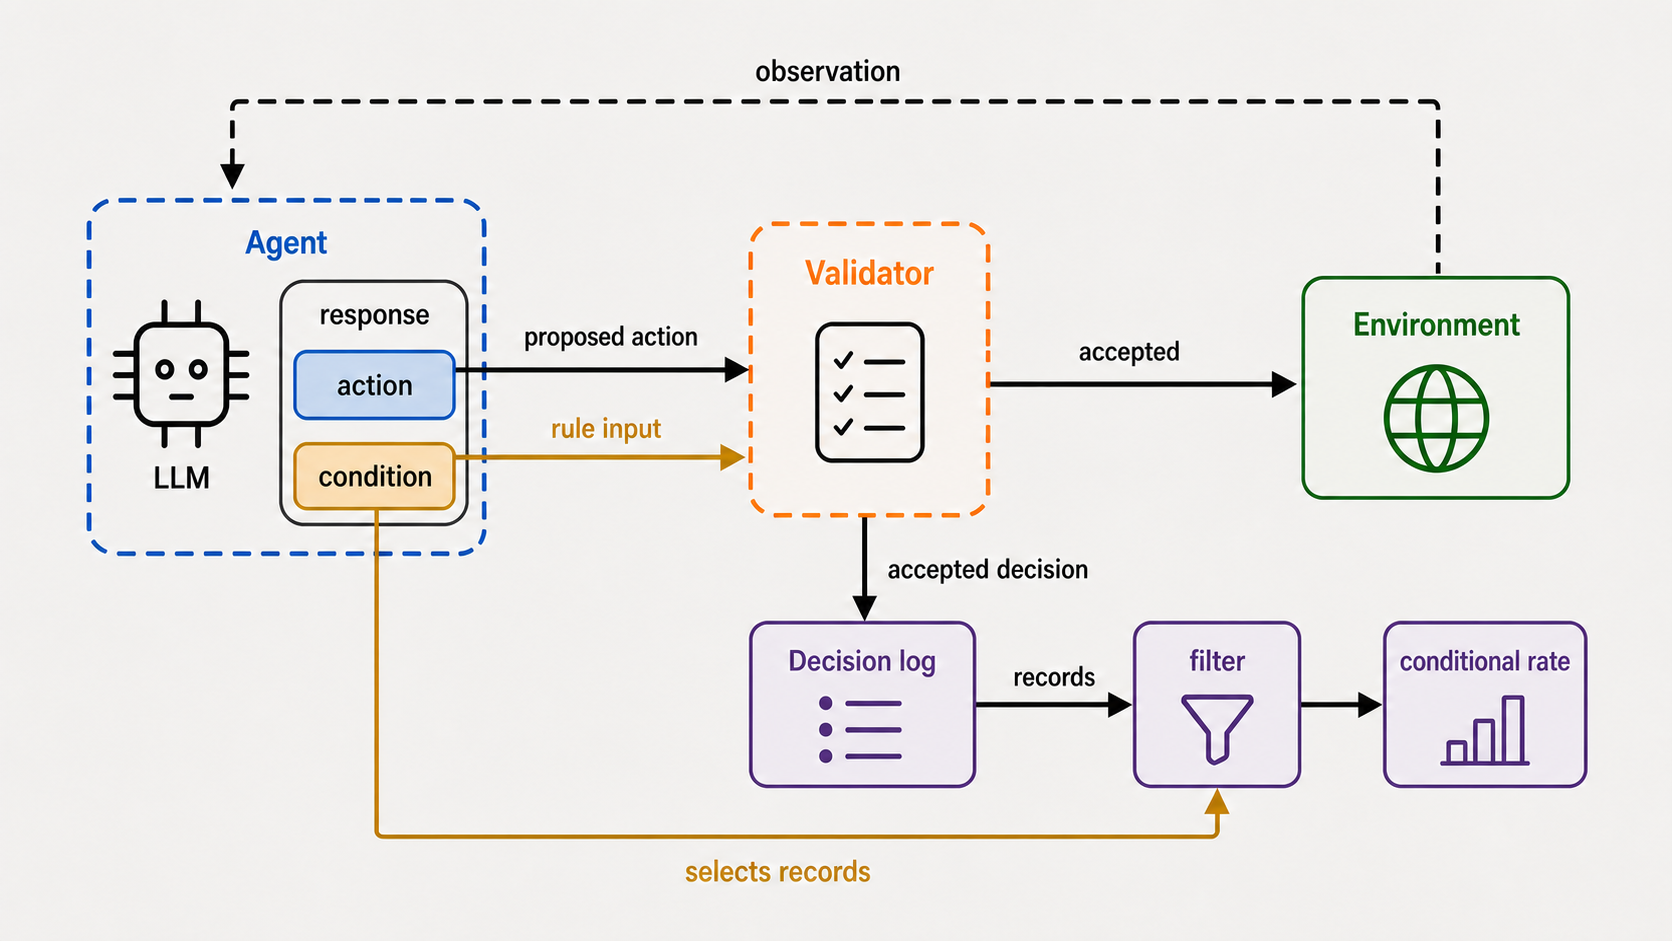
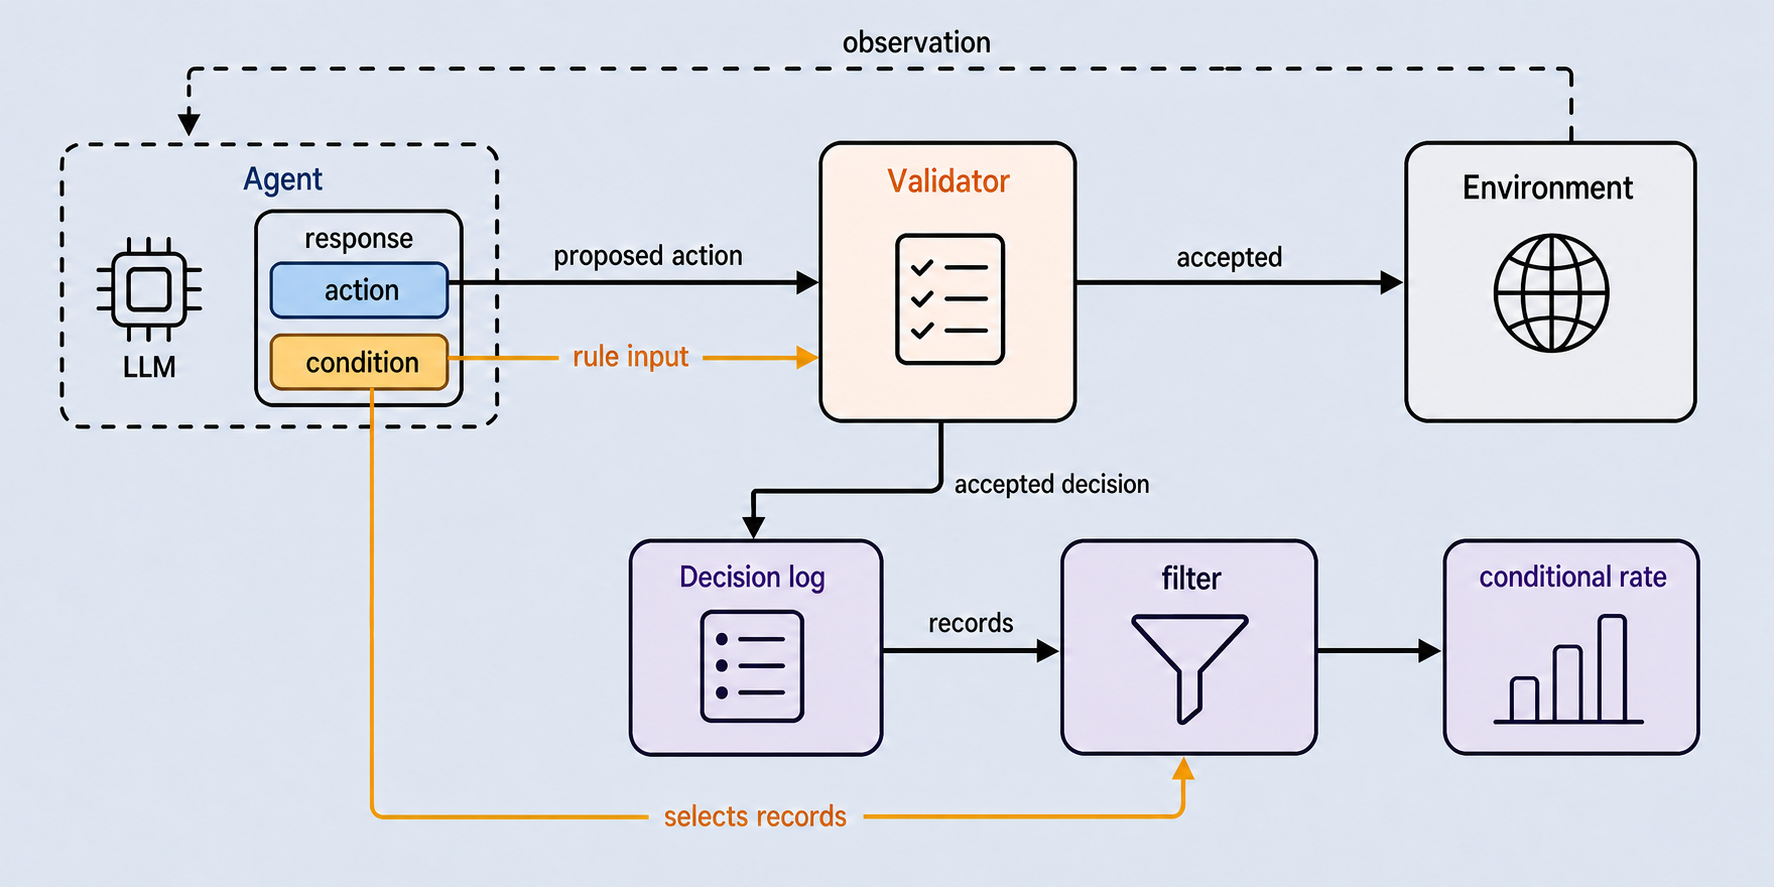
docs(paper): replace Figure 1 with shared-condition bridge v3
Replace the v2 module layout with a generated shared-condition bridge derived from the visual grammar of ReAct, Reflexion, AutoGen, AgentSpec, and SWE-agent. Make the accepted-decision route terminate on Decision log, keep the condition-to-filter path distinct, and use black borders with colored fills and a subordinate AI cue.

Checks: builder PASS; source/active/print/candidate byte-identical; exact 900x450 thumbnail regenerated from v3; geometry/hash PASS; manuscript static PASS with official TeX engine unavailable; evidence boundary PASS; exact-active adversarial review STRICT PASS; code-reviewer APPROVE.

Official typeset PDF inspection remains an explicit open blocker.

Co-Reviewed-By: code-review skill (trigger 1: staged diff exceeds 50 LOC and touches more than 3 files)

Co-Reviewed-By: code-reviewer subagent (APPROVE)

Changed region(s): [[0.0311, 0.0304, 0.9641, 0.9436]]

diff --git a/ICLR2027/submission/source/figure1_agent_paper.py b/ICLR2027/submission/source/figure1_agent_paper.py
@@ -1,8 +1,8 @@
-"""Stage the generated, paper-facing Figure 1 compact architecture.
+"""Stage the generated, paper-facing Figure 1 shared-condition architecture.
 
-The selected compact architecture is a single generated raster asset. The image
+The selected architecture is a single generated raster asset. The image
 generator produced the LLM cue, functional icons, node fills, borders, arrows,
-typography, and background as one interface-first architecture composition.
+typography, and background as one shared-condition bridge composition.
 This builder only copies that immutable asset into the active submission
 directory and records its labels and meaning for review; it does not redraw or
 edit any visual element.
@@ -19,7 +19,7 @@ from PIL import Image
 
 
 ROOT = Path(__file__).resolve().parents[1]
-ASSET = ROOT / "figures" / "assets" / "figure1_architecture_agentpaper_v2.png"
+ASSET = ROOT / "figures" / "assets" / "figure1_architecture_agentpaper_v3.png"
 ACTIVE = ROOT / "figures" / "active"
 OUT = ACTIVE / "figure1_concept"
 
@@ -60,9 +60,9 @@ def build() -> dict[str, object]:
         "print_sha256": print_sha256,
         "canvas_px": [width, height],
         "scale": 1,
-        "pdf_size_in": [6.35, 3.58],
-        "canvas_policy": "warm light-gray paper background; compact AgentSpec-style ownership boundaries, tight-to-content nodes, and no pure-white cards",
-        "style": "generated agent-paper architecture inspired by ReAct, Reflexion, AgentSpec, and SWE-agent: one bounded agent response, action-aligned validator insertion, aligned decision logging, short relation labels, and restrained functional icons",
+        "pdf_size_in": [6.35, 3.18],
+        "canvas_policy": "pale blue-gray paper background; black borders with colored fills; compact shared-condition bridge with tight-to-content nodes",
+        "style": "generated agent-paper architecture inspired by ReAct, Reflexion, AgentSpec, and SWE-agent: one bounded response, a clear validator insertion point, an accepted-decision log, an explicit shared-condition fork, short relation labels, and subordinate AI/function icons",
         "text": [
             "Agent", "LLM", "response", "action", "condition", "proposed action",
             "Validator", "rule input", "accepted", "Environment",
@@ -89,7 +89,7 @@ def build() -> dict[str, object]:
                 "the amber selects-records arrow starts at condition, bypasses Decision log, and enters Filter",
                 "Decision log has a separate records arrow into Filter",
                 "the observation route is thin, dashed, and returns from Environment to Agent",
-                "the compact single-canvas composition avoids a floating icon collage and excessive white space",
+                "the compact single-canvas composition avoids a floating icon collage and excessive unused space",
             ],
         },
         "geometry_status": "not_machine_verifiable_for_generated_raster",

diff --git a/ICLR2027/submission/checks/figure1_geometry_check.py b/ICLR2027/submission/checks/figure1_geometry_check.py
@@ -88,9 +88,9 @@ def main() -> int:
             errors.append(f"labels exceed the short-figure limit: {too_long}")
 
         source_asset = ROOT / manifest.get("asset", "")
-        if source_asset.name != "figure1_architecture_agentpaper_v2.png":
+        if source_asset.name != "figure1_architecture_agentpaper_v3.png":
             errors.append(
-                "generated Figure 1 source must remain the reviewed agent-paper v2 asset: "
+                "generated Figure 1 source must remain the reviewed agent-paper v3 asset: "
                 f"{source_asset.name}"
             )
         expected_hashes = {

diff --git a/ICLR2027/submission/HANDOFF.md b/ICLR2027/submission/HANDOFF.md
@@ -30,7 +30,7 @@ strengthen ICLR generality; no new experiment has yet been run in this package.
 | Anonymous manuscript | `paper\manuscript.tex` |
 | Bibliography | `paper\references.bib` |
 | Figures cited by TeX | `figures\active\` |
-| Figure 1 generated asset | `figures\assets\figure1_architecture_agentpaper_v2.png` |
+| Figure 1 generated asset | `figures\assets\figure1_architecture_agentpaper_v3.png` |
 | Figure 1 staging builder | `source\figure1_agent_paper.py` |
 | Figure 1 builder | `source\figure1_overlay.py` (compatibility entry point) |
 | Figure 1 manifest | `figures\active\figure1_concept.json` |
@@ -46,7 +46,7 @@ strengthen ICLR generality; no new experiment has yet been run in this package.
 
 `figures\active\` is the only directory whose rendered files may be included
 by `paper\manuscript.tex`. `figures\candidates\` contains non-active
-alternatives. `figures\assets\figure1_architecture_agentpaper_v2.png` is the
+alternatives. `figures\assets\figure1_architecture_agentpaper_v3.png` is the
 reviewed source asset for the active generated Figure 1. Legacy and
 intermediate versions are under `figures\candidates\legacy\figure1\` and
 `figures\candidates\architecture-reset-round\`.
@@ -60,20 +60,19 @@ contains a response with `action` and `condition`, the `Validator` sits before
 condition takes a separate amber route directly to `filter`, while logged
 records enter the filter through `records` and feed `conditional rate`.
 
-The active composition is the agent-paper v2 architecture generated after
-auditing ReAct, Reflexion, AutoGen, AgentSpec, SWE-agent, Voyager, and
-Magentic-One. It uses a single warm-gray canvas with local semantic nodes,
-keeps the response inside the Agent boundary, aligns the accepted-decision
-arrow with `Decision log`, anchors `proposed action` to `action`, and routes the shared condition directly to
-`filter`. It also uses short relation labels, black primary routes, a small
-LLM cue, semantic flat fills, and a top dashed `observation` return lane. The earlier
-dashboard-like and D-v3 compositions are historical and preserved under
-`figures\candidates\legacy\figure1\` and
-`figures\candidates\architecture-reset-round\`.
+The active composition is the agent-paper v3 shared-condition bridge generated
+after auditing ReAct, Reflexion, AutoGen, AgentSpec, SWE-agent, Voyager, and
+Magentic-One. It uses a compact grid with local semantic nodes, keeps the
+response inside the Agent boundary, anchors `proposed action` to `action`,
+bends `accepted decision` directly into `Decision log`, and routes the shared
+condition below the log into `filter`. It also uses black borders with
+colored fills, short relation labels, a subordinate LLM cue, and a top dashed
+`observation` return lane. The dashboard-like, D-v3, v1, and v2 compositions
+are historical and preserved under `figures\candidates\`.
 
-The generated asset (agent-paper v2, with `proposed action` anchored at
-`action`, an aligned
-`accepted decision` arrow, direct condition-to-filter routing, and a
+The generated asset (agent-paper v3, with `proposed action` anchored at
+`action`, an accepted-decision route terminating on `Decision log`, direct
+condition-to-filter routing, black borders with colored fills, and a
 non-crossing observation loop) is visually reviewed at full size, paper-width
 preview, grayscale, and thumbnail size.
 The geometry check reports `PASS_MANUAL_VISUAL_REVIEW_REQUIRED`: image

diff --git a/ICLR2027/submission/REVIEW_ROUNDS.md b/ICLR2027/submission/REVIEW_ROUNDS.md
@@ -335,7 +335,7 @@ candidate to anchor `proposed action` directly to the `action` field. Official
 typeset PDF inspection remains the release gate because the local environment
 still lacks a TeX engine.
 
-## Round 18: agent-paper v2 active integration and endpoint audit
+## Round 18: agent-paper v2 integration and endpoint audit (historical)
 
 The compact v1 candidate was not retained as the final design. A fresh
 generated candidate was produced from the paper grammar audit: a small dashed
@@ -346,7 +346,7 @@ the Validator before execution, while `selects records` enters the filter
 without passing through the Decision log. The black `proposed action` arrow
 was then regenerated so its visible origin is the `action` field itself.
 
-The active generated source is
+At that historical stage, the generated source was
 `figures/assets/figure1_architecture_agentpaper_v2.png`, with SHA-256
[1 lines of base64/hex data omitted]
 The builder copied the same raster into the manuscript-facing PNG and print
@@ -356,3 +356,26 @@ overlap checks, information-density checks, and paper-grammar checks; it also
 confirmed that the single-headed dashed observation return is directionally
 unambiguous. Official typeset PDF inspection remains open because the local
 environment still lacks a TeX engine.
+
+## Round 19: shared-condition bridge v3
+
+The v2 composition was not treated as the endpoint because its module layout
+still gave the execution and measurement paths comparable visual weight. A new
+generated candidate was designed from the paper audit as a compact grid: the
+Agent response is on the left, Validator and Environment form the upper
+execution chain, and Decision log, filter, and conditional rate form the lower
+measurement chain. The amber `condition` field has two independent routes:
+`rule input` enters Validator, while `selects records` bypasses Decision log and
+enters filter. The black `accepted decision` route bends directly into the top
+edge of Decision log.
+
+The active generated source is
+`figures/assets/figure1_architecture_agentpaper_v3.png`, with SHA-256
[1 lines of base64/hex data omitted]
+The candidate, active source, active PNG, print PNG, and regenerated thumbnail
+must all be copied from this exact raster. Full-size, paper-width, grayscale,
+and thumbnail review found no text overlap or route crossing. The exact-active
+adversarial review then passed all seven required routes, the agent-paper
+grammar, the exact thumbnail synchronization, and the caption alignment.
+Official typeset PDF inspection remains open because the local environment still
+lacks a TeX engine.

diff --git a/ICLR2027/submission/AGENT_ARCHITECTURE_FIGURE_RESET.md b/ICLR2027/submission/AGENT_ARCHITECTURE_FIGURE_RESET.md
@@ -5,9 +5,9 @@
 The earlier D-v3 checkpoint is retired as a design direction. It still reads
 like a colorful inventory of modules: the execution path, measurement path,
 icons, and feedback loop have comparable visual weight. A reviewer must decode
-the layout before seeing the paper's point. The selected agent-paper v2 figure
-is a new compact composition designed from the architecture grammars used in
-agent papers, not a recolor of the old composition.
+the layout before seeing the paper's point. The selected agent-paper v3 figure
+is a new shared-condition bridge designed from the architecture grammars used
+in agent papers, not a recolor of the old composition or v2 checkpoint.
 
 ## Message to communicate
 
@@ -42,7 +42,7 @@ gradients, or sentence-length labels inside the diagram.
 
 ## Selected information architecture
 
-The selected design is a **two-role, aligned-log** architecture:
+The selected design is a **shared-condition bridge** architecture:
 
 ```text
   RUNTIME: Agent(response[action, condition]) --> Validator --> Environment
@@ -93,12 +93,13 @@ checkpoint.
    highlighted condition to two clearly separated consumers, validator and
    filter, while the action path remains the primary left-to-right trajectory.
 
-The active agent-paper v2 asset is the compact ownership-boundary form: the
-response remains inside the Agent boundary, the `proposed action` arrow starts
-at the `action` field, the accepted-decision arrow lands directly on the
-Decision log, and the condition route passes below the log before entering the
-filter. The upper and lower paths are expressed by placement and connectors,
-not by full-canvas lane frames or header banners.
+The active agent-paper v3 asset is the compact grid form: the response remains
+inside the Agent boundary, the `proposed action` arrow starts at the `action`
+field, the accepted-decision route bends directly into the Decision log, and
+the condition route passes below the log before entering the filter. Black
+borders with colored fills and subordinate icons provide the visual hierarchy;
+the upper and lower paths are expressed by placement and connectors, not by
+full-canvas lane frames or header banners.
 
 ## Visual constraints
 

diff --git a/ICLR2027/submission/README.md b/ICLR2027/submission/README.md
@@ -22,7 +22,7 @@ paper. Read this file first when returning to the project.
 | Manuscript | `paper/manuscript.tex` |
 | Bibliography | `paper/references.bib` |
 | Figures cited by the manuscript | `figures/active/` |
-| Figure 1 generated asset | `figures/assets/figure1_architecture_agentpaper_v2.png` |
+| Figure 1 generated asset | `figures/assets/figure1_architecture_agentpaper_v3.png` |
 | Figure 1 staging builder | `source/figure1_agent_paper.py` |
 | Figure 1 builder entry point | `source/figure1_overlay.py` compatibility entry point |
 | Figure 1 geometry check | `checks/figure1_geometry_check.py` |
@@ -31,16 +31,17 @@ paper. Read this file first when returning to the project.
 
 The files in `figures/candidates/` are alternatives only. They are not
 submission figures and must never be referenced by `manuscript.tex`. The
-active Figure 1 is the generated compact composition staged from
-`figures/assets/figure1_architecture_agentpaper_v2.png`.
+active Figure 1 is the generated shared-condition bridge staged from
+`figures/assets/figure1_architecture_agentpaper_v3.png`.
 It follows the reset audit in `AGENT_ARCHITECTURE_FIGURE_RESET.md`: a compact
 Agent → Validator → Environment path, a separate accepted-decision log path,
 and a direct condition → filter route. The observation return is routed above
 the modules so it does not cross the measurement paths.
 
-The current agent-paper v2 places the response inside the Agent boundary,
-anchors `proposed action` to the `action` field, and aligns the accepted-
-decision arrow with the Decision log in the compact lower measurement path.
+The current agent-paper v3 places the response inside the Agent boundary,
+anchors `proposed action` to the `action` field, bends the accepted-decision
+route directly into the Decision log, and sends the same condition below the
+log into the filter.
 
 ## Figure workflow
 

diff --git a/ICLR2027/submission/SOURCE_OF_TRUTH.md b/ICLR2027/submission/SOURCE_OF_TRUTH.md
@@ -7,15 +7,15 @@ The active release is the directory containing this file:
 
 - Manuscript source: `paper\manuscript.tex`
 - Bibliography: `paper\references.bib`
-- Figure 1 generated asset: `figures\assets\figure1_architecture_agentpaper_v2.png`
+- Figure 1 generated asset: `figures\assets\figure1_architecture_agentpaper_v3.png`
 - Figure 1 staging builder: `source\figure1_agent_paper.py`
 - Figure 1 compatibility entry point: `source\figure1_overlay.py`
 - Figure 1 contract: `AGENT_ARCHITECTURE_FIGURE_RESET.md`
 - Manuscript-facing figures: `figures\active\`
 - Figure 1 manifest: `figures\active\figure1_concept.json`
 - Figure 1 is a complete generated raster composition with an explicit
-  Validator insertion point, a direct condition-to-filter route, near-black
-  arrows, restrained colored fills, and a warm light-gray background
+  Validator insertion point, a direct shared-condition-to-filter route,
+  black borders, restrained colored fills, and a pale blue-gray background
 - Legacy vector and intermediate Figure 1 files:
   `figures\candidates\legacy\figure1\`
 - Non-active figure candidates: `figures\candidates\`
@@ -35,7 +35,7 @@ submission/
   paper/                 manuscript and bibliography
   figures/active/        only figures referenced by manuscript.tex
   figures/assets/        canonical generated source asset plus historical assets;
-                          only the named agent-paper v2 asset feeds the active builder
+                          only the named agent-paper v3 asset feeds the active builder
   figures/candidates/    non-submission alternatives; never referenced by TeX
   source/                deterministic figure builder and ICLR style files
   checks/                static, geometry, evidence, and reproducibility checks

diff --git a/ICLR2027/submission/FIGURE1_DESIGN.md b/ICLR2027/submission/FIGURE1_DESIGN.md
@@ -2,9 +2,9 @@
 
 ## Active version
 
-The active Figure 1 is the generated agent-paper architecture candidate v2:
+The active Figure 1 is the generated shared-condition agent-paper architecture candidate v3:
 
-`figures/assets/figure1_architecture_agentpaper_v2.png`
+`figures/assets/figure1_architecture_agentpaper_v3.png`
 
 The research and design rationale for the reset is recorded in
 `AGENT_ARCHITECTURE_FIGURE_RESET.md`. Earlier two-lane/dashboard-like
@@ -55,13 +55,13 @@ roles; they are not printed as full-canvas headers in the image.
 
 ## Visual constraints
 
-- Compact single-canvas composition for the full-width ICLR figure, using
-  local semantic nodes and ownership boundaries rather than full-canvas lane
+- Compact grid composition for the full-width ICLR figure, using local
+  semantic nodes and one Agent ownership boundary rather than full-canvas lane
   frames or header banners.
-- Warm light-gray background; pale blue Agent, orange Validator, green
-  Environment, amber condition, and violet measurement fills.
-- Near-black primary outlines and arrows; one thin gray dashed observation
-  route.
+- Pale blue-gray background; pale blue Agent response, orange Validator,
+  green Environment, amber condition, and violet measurement fills.
+- Near-black borders and primary arrows; amber condition routes; one thin
+  black dashed observation route.
 - Small semantic icons only: LLM chip, validator check, environment/simulator,
   log/list, filter, and rate gauge.
 - No gradients, large mascots, screenshots, pure-white label cards, title

diff --git a/ICLR2027/submission/figures/candidates/agent-paper-round/README.md b/ICLR2027/submission/figures/candidates/agent-paper-round/README.md
@@ -1,9 +1,8 @@
 # Agent-paper Figure 1 candidate round
 
 These candidates were generated after comparing the rendered figures in
-ReAct, Reflexion, AutoGen, and AgentSpec. This is a historical candidate round
-only; none of the files below is active and none is a regeneration source for
-the current agent-paper v2 figure.
+ReAct, Reflexion, AutoGen, and AgentSpec. Earlier files are historical; the
+v3 shared-condition candidate below is now the active regeneration source.
 
 - `figure1_candidate_A_loop.png`: rejected; the `rule input` label was placed
   on the wrong downstream arrow and the condition-to-Validator relation was
@@ -25,5 +24,6 @@ The historical F image was copied to
 `figures/assets/figure1_generated_full_final.png` and staged by an earlier
 builder. All labels, arrows, and icons remain part of the generated raster,
 but the D-v3 source is now historical. The active source is
-`figures/assets/figure1_architecture_agentpaper_v2.png`, documented in the
-submission-level reset contract.
+`figures/assets/figure1_architecture_agentpaper_v3.png`, documented in the
+submission-level reset contract. `figure1_shared_condition_v3.png` is the
+generated source copied into that active asset.

diff --git a/ICLR2027/submission/figures/assets/README.md b/ICLR2027/submission/figures/assets/README.md
@@ -1,12 +1,12 @@
 # Figure 1 generated assets
 
-`figure1_architecture_agentpaper_v2.png` is the reviewed generated agent-paper
-composition used by the active ICLR manuscript. It contains the LLM cue,
-functional icons, borders, fills, arrows, labels, and background as one
-generated raster image. Its local semantic nodes separate runtime from
-measurement without full-canvas lane frames; the Agent boundary owns the
-response, the accepted-decision arrow lands on the aligned Decision log, and
-the shared condition routes directly to Filter.
+`figure1_architecture_agentpaper_v3.png` is the reviewed generated
+shared-condition bridge used by the active ICLR manuscript. It contains the
+LLM cue, functional icons, black borders, colored fills, arrows, labels, and
+background as one generated raster image. Its compact grid separates runtime
+from measurement; the Agent boundary owns the response, the accepted-decision
+route terminates on Decision log, and the shared condition routes directly to
+Filter.
 
 Other files in this directory are generation intermediates or historical style
 references. They are not active manuscript figures. Run

diff --git a/ICLR2027/submission/figures/candidates/architecture-reset-round/README.md b/ICLR2027/submission/figures/candidates/architecture-reset-round/README.md
@@ -22,10 +22,13 @@ kept for design provenance and are never referenced by the manuscript.
 - `figure1_candidate_D_final_generated_v3.png`: historical D-v3 generated
   candidate; it was the previous active source before the compact v1 reset.
 - `figure1_architecture_compact_v1.png`: historical compact single-canvas
-  candidate; it was superseded by the agent-paper v2 source below.
-- `figure1_architecture_agentpaper_v2.png`: current compact ownership-boundary
-  candidate; the reviewed source is copied to `figures/assets/` and staged as
-  the active manuscript figure.
+  candidate; it was superseded by the agent-paper v3 source below.
+- `figure1_architecture_agentpaper_v2.png`: historical compact
+  ownership-boundary candidate; it was superseded by the v3 shared-condition
+  bridge.
+- `figure1_architecture_agentpaper_v3.png`: active shared-condition bridge;
+  the reviewed source is copied to `figures/assets/` and staged as the active
+  manuscript figure.
 - `legacy_asset_D_v1.png` and `legacy_asset_D_v2.png`: duplicate intermediate
   source copies retained only for provenance.
 

diff --git a/ICLR2027/submission/supplement/FIGURE_REGENERATION.md b/ICLR2027/submission/supplement/FIGURE_REGENERATION.md
@@ -9,11 +9,11 @@ python ICLR2027\submission\source\figure1_overlay.py
 python ICLR2027\submission\checks\figure1_geometry_check.py
 ```
 
-Figure 1 is the reviewed agent-paper v2 generated composition based on the reset
+Figure 1 is the reviewed agent-paper v3 shared-condition bridge based on the
 agent-paper architecture audit. It uses local semantic nodes, an explicit
-Validator insertion point, an accepted-decision arrow aligned to Decision log,
-and a direct condition-to-filter route. The builder stages
-`figures/assets/figure1_architecture_agentpaper_v2.png`; it does not redraw or edit
+Validator insertion point, an accepted-decision route into Decision log, and a
+direct shared-condition-to-filter route. The builder stages
+`figures/assets/figure1_architecture_agentpaper_v3.png`; it does not redraw or edit
 the image. The geometry check verifies the generated asset and dimensions,
 while text/arrow separation requires the documented visual review because
 those pixels are not machine-addressable geometry.
